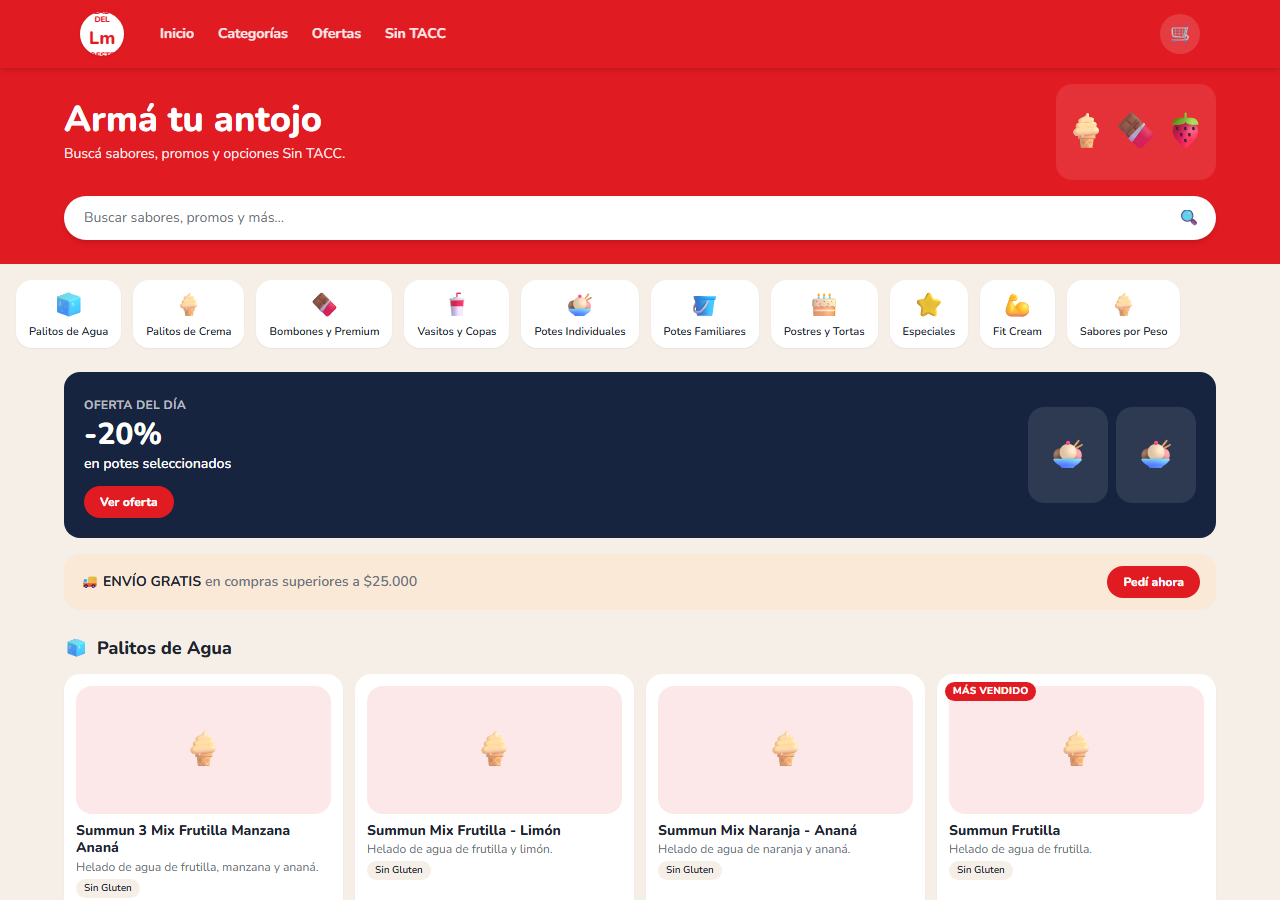
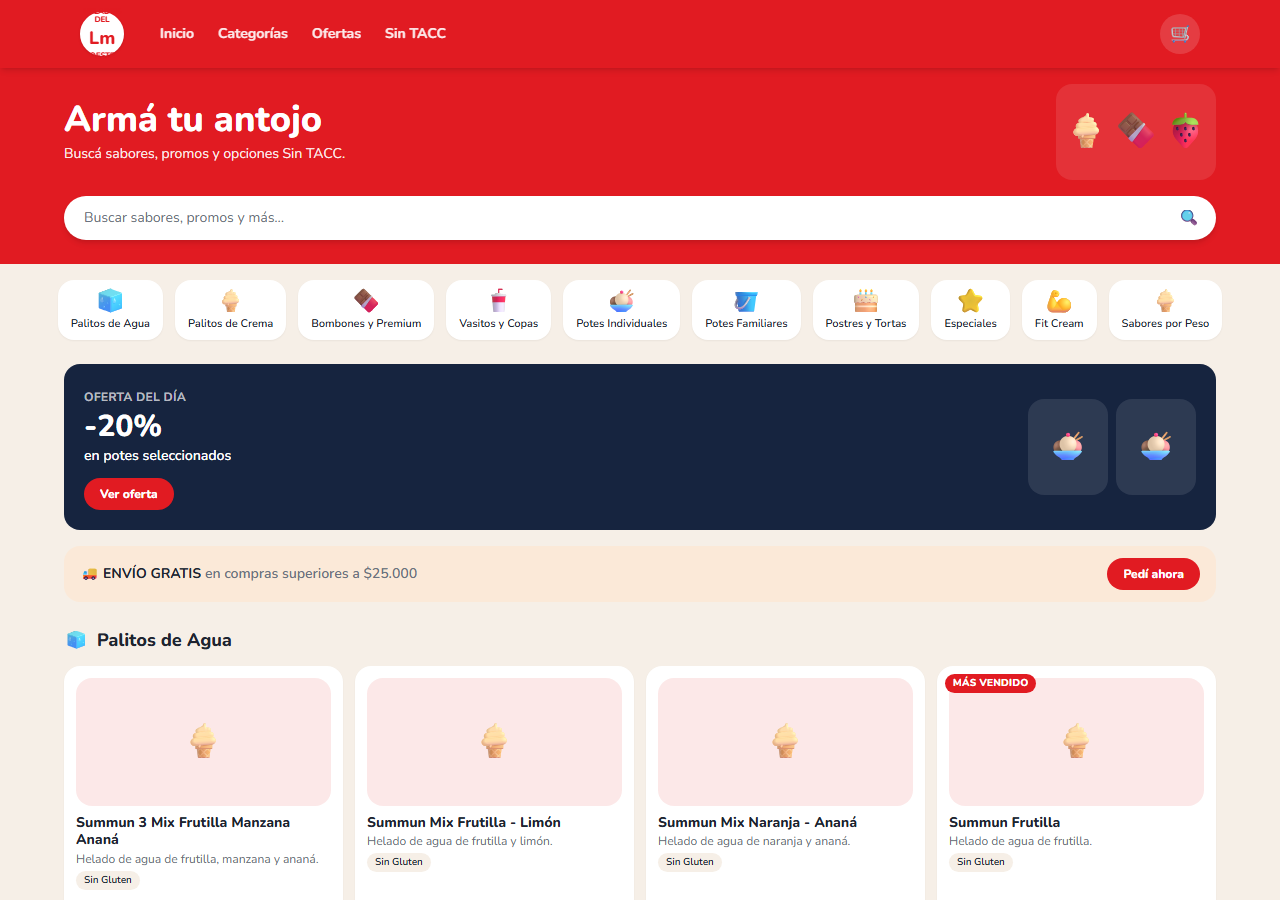
fix: center category pills row on desktop

diff --git a/src/components/CategoryPills.tsx b/src/components/CategoryPills.tsx
@@ -8,7 +8,7 @@ interface Props {
 
 export function CategoryPills({ categories, selected, onSelect }: Props) {
   return (
-    <div className="flex gap-3 overflow-x-auto px-4 py-4">
+    <div className="flex gap-3 overflow-x-auto px-4 py-4 md:justify-center">
       {categories.map((c) => {
         const active = selected === c.id;
         return (
